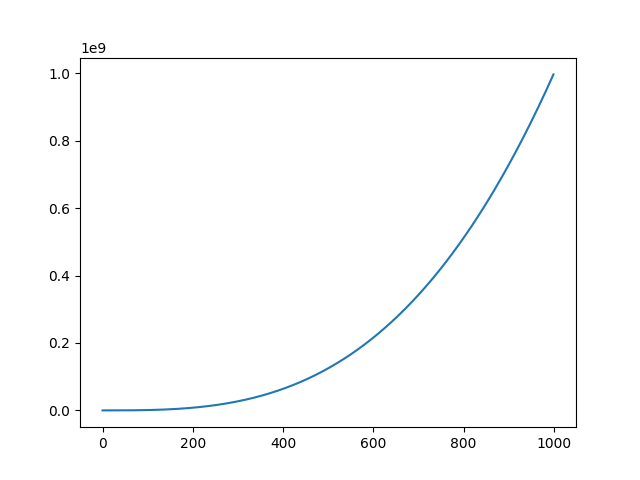
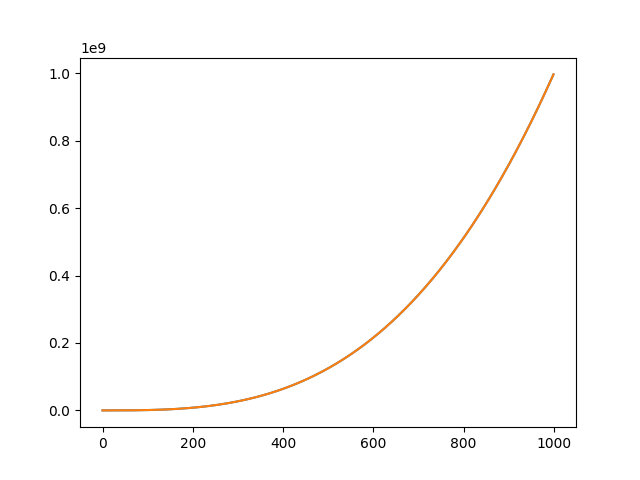
high q image

diff --git a/design.py b/design.py
@@ -1,6 +1,6 @@
 # -*- coding: utf-8 -*-
 
-# Form implementation generated from reading ui file 'ui.ui'
+# Form implementation generated from reading ui file 'design.ui'
 #
 # Created by: PyQt5 UI code generator 5.15.10
 #
@@ -14,11 +14,11 @@ from PyQt5 import QtCore, QtGui, QtWidgets
 class Ui_MainWindow(object):
     def setupUi(self, MainWindow):
         MainWindow.setObjectName("MainWindow")
-        MainWindow.resize(1099, 834)
+        MainWindow.resize(1099, 901)
         self.centralwidget = QtWidgets.QWidget(MainWindow)
         self.centralwidget.setObjectName("centralwidget")
         self.rootTabControl = QtWidgets.QTabWidget(self.centralwidget)
-        self.rootTabControl.setGeometry(QtCore.QRect(0, 0, 1091, 801))
+        self.rootTabControl.setGeometry(QtCore.QRect(0, 0, 1091, 881))
         self.rootTabControl.setObjectName("rootTabControl")
         self.testTab = QtWidgets.QWidget()
         self.testTab.setObjectName("testTab")
@@ -26,10 +26,10 @@ class Ui_MainWindow(object):
         self.startCalcTest.setGeometry(QtCore.QRect(10, 50, 161, 28))
         self.startCalcTest.setObjectName("startCalcTest")
         self.textEdit_2 = QtWidgets.QTextEdit(self.testTab)
-        self.textEdit_2.setGeometry(QtCore.QRect(30, 10, 141, 31))
+        self.textEdit_2.setGeometry(QtCore.QRect(40, 10, 141, 31))
         self.textEdit_2.setObjectName("textEdit_2")
         self.label_2 = QtWidgets.QLabel(self.testTab)
-        self.label_2.setGeometry(QtCore.QRect(10, 10, 21, 19))
+        self.label_2.setGeometry(QtCore.QRect(10, 15, 21, 19))
         self.label_2.setObjectName("label_2")
         self.graph1Test = QtWidgets.QLabel(self.testTab)
         self.graph1Test.setGeometry(QtCore.QRect(260, 30, 421, 301))
@@ -41,20 +41,20 @@ class Ui_MainWindow(object):
         self.mainTab = QtWidgets.QWidget()
         self.mainTab.setObjectName("mainTab")
         self.startCalcMain = QtWidgets.QPushButton(self.mainTab)
-        self.startCalcMain.setGeometry(QtCore.QRect(10, 70, 161, 28))
+        self.startCalcMain.setGeometry(QtCore.QRect(10, 50, 161, 28))
         self.startCalcMain.setObjectName("startCalcMain")
         self.label = QtWidgets.QLabel(self.mainTab)
-        self.label.setGeometry(QtCore.QRect(10, 30, 21, 19))
+        self.label.setGeometry(QtCore.QRect(10, 15, 21, 19))
         self.label.setObjectName("label")
         self.textEdit = QtWidgets.QTextEdit(self.mainTab)
-        self.textEdit.setGeometry(QtCore.QRect(40, 20, 141, 31))
+        self.textEdit.setGeometry(QtCore.QRect(40, 10, 141, 31))
         self.textEdit.setObjectName("textEdit")
         self.graph1Main = QtWidgets.QLabel(self.mainTab)
-        self.graph1Main.setGeometry(QtCore.QRect(270, 50, 421, 301))
+        self.graph1Main.setGeometry(QtCore.QRect(220, 0, 700, 430))
         self.graph1Main.setObjectName("graph1Main")
-        self.label_6 = QtWidgets.QLabel(self.mainTab)
-        self.label_6.setGeometry(QtCore.QRect(280, 380, 421, 301))
-        self.label_6.setObjectName("label_6")
+        self.graph2Main = QtWidgets.QLabel(self.mainTab)
+        self.graph2Main.setGeometry(QtCore.QRect(220, 420, 700, 430))
+        self.graph2Main.setObjectName("graph2Main")
         self.rootTabControl.addTab(self.mainTab, "")
         MainWindow.setCentralWidget(self.centralwidget)
         self.menubar = QtWidgets.QMenuBar(MainWindow)
@@ -90,7 +90,7 @@ class Ui_MainWindow(object):
 "</style></head><body style=\" font-family:\'MS Shell Dlg 2\'; font-size:9.6pt; font-weight:400; font-style:normal;\">\n"
 "<p style=\" margin-top:0px; margin-bottom:0px; margin-left:0px; margin-right:0px; -qt-block-indent:0; text-indent:0px;\">100</p></body></html>"))
         self.graph1Main.setText(_translate("MainWindow", "TextLabel"))
-        self.label_6.setText(_translate("MainWindow", "TextLabel"))
+        self.graph2Main.setText(_translate("MainWindow", "TextLabel"))
         self.rootTabControl.setTabText(self.rootTabControl.indexOf(self.mainTab), _translate("MainWindow", "Основная"))
 
 

diff --git a/ui.py b/ui.py
@@ -3,6 +3,8 @@ from PyQt5 import QtWidgets
 import design
 from matplotlib import pyplot as plt
 from PyQt5.QtGui import QPixmap
+import cv2
+import imutils
 
 class ExampleApp(QtWidgets.QMainWindow, design.Ui_MainWindow):
     def __init__(self):
@@ -10,6 +12,12 @@ class ExampleApp(QtWidgets.QMainWindow, design.Ui_MainWindow):
         self.setupUi(self)
         self.startCalcMain.clicked.connect(self.drawMain)
         self.startCalcTest.clicked.connect(self.drawTest)
+
+    def resizeImage(self, imageName, height):
+        image = cv2.imread(imageName)
+        resized = imutils.resize(image, height=height)
+
+        cv2.imwrite(imageName, resized)
 
     def drawMain(self):
         graphName = "graphMain.png"
@@ -21,26 +29,23 @@ class ExampleApp(QtWidgets.QMainWindow, design.Ui_MainWindow):
         plt.savefig(graphName)
 
         size = self.graph1Main.size()
-        width = size.width()
+        #width = size.width()
         height = size.height()
+        self.resizeImage(graphName, height)
 
         pixmap = QPixmap(graphName)
-        pixmap = pixmap.scaledToWidth(width)
+        #pixmap = pixmap.scaledToWidth(width)
         pixmap = pixmap.scaledToHeight(height)
         self.graph1Main.setPixmap(pixmap)
 
-        size = self.graph1Main.size()
-
-        width = size.width()
+        size = self.graph2Main.size()
+        #width = size.width()
         height = size.height()
 
-        print(width, height)
-
-
-
-        #pixmap = QPixmap(graphName)
-        #self.graph2Main.setPixmap(pixmap)
-
+        pixmap = QPixmap(graphName)
+        #pixmap = pixmap.scaledToWidth(width)
+        pixmap = pixmap.scaledToHeight(height)
+        self.graph2Main.setPixmap(pixmap)
 
 
     def drawTest(self):
